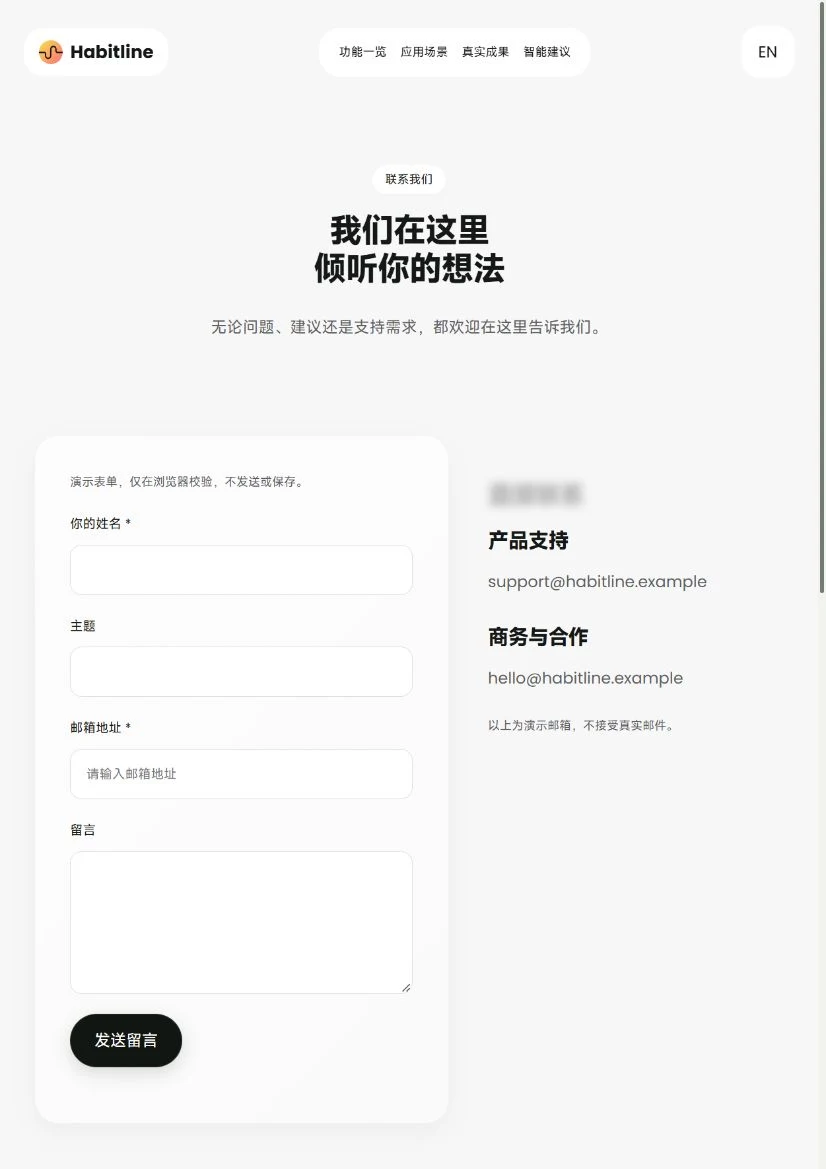
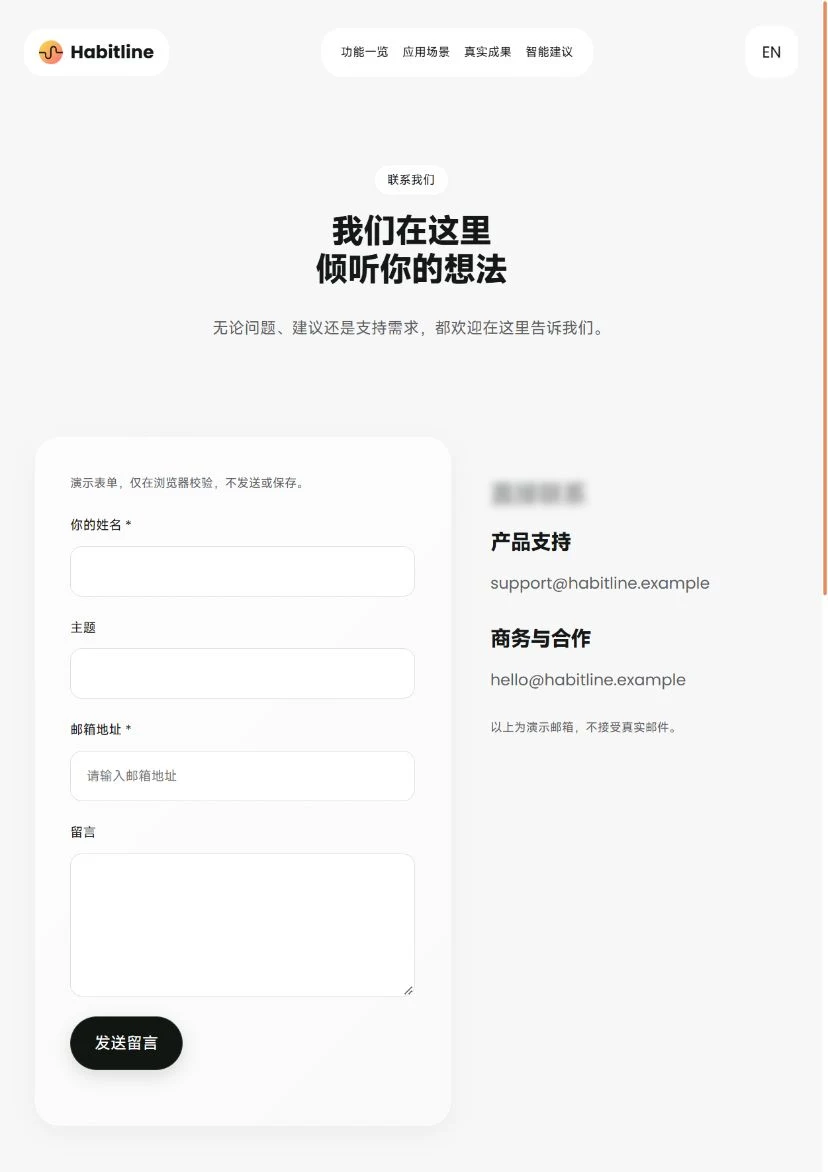
style: use finer warm orange scrollbars with transparent tracks

diff --git a/src/features/site-templates/catalog/habitline/meta.ts b/src/features/site-templates/catalog/habitline/meta.ts
@@ -1,2 +1,2 @@
 import type { SiteTemplate } from '../../types';
-export const habitlineTemplate: SiteTemplate = { ...{ "id": "habitline", "gitUrl": "https://github.com/weelume/habitline-template", "name": "Habitline · 从容习惯", "localizedNames": { "en": "Habitline · Calm daily habits" }, "sceneId": "landing-page", "listed": false, "tags": ["健康生活", "习惯管理", "玻璃质感", "双语", "PC / iPad / H5"], "summary": "暖橙色健康生活与习惯追踪模板，包含双首页、场景切换、动态数据、视频评价、定价、候补名单、更新日志、FAQ 和联系页。", "accentColor": "#ff5900", "cover": "/templates/habitline/screenshots/desktop-home.webp", "screenshots": [{ "src": "/templates/habitline/screenshots/desktop-home.webp", "alt": "Habitline desktop home", "device": "desktop", "width": 1432, "height": 994 }, { "src": "/templates/habitline/screenshots/desktop-features.webp", "alt": "Habitline desktop features", "device": "desktop", "width": 1432, "height": 994 }, { "src": "/templates/habitline/screenshots/desktop-about.webp", "alt": "Habitline desktop about", "device": "desktop", "width": 1432, "height": 994 }, { "src": "/templates/habitline/screenshots/desktop-contact.webp", "alt": "Habitline desktop contact", "device": "desktop", "width": 1432, "height": 994 }, { "src": "/templates/habitline/screenshots/tablet-home.webp", "alt": "Habitline tablet home", "device": "tablet", "width": 826, "height": 1169 }, { "src": "/templates/habitline/screenshots/tablet-features.webp", "alt": "Habitline tablet features", "device": "tablet", "width": 826, "height": 1169 }, { "src": "/templates/habitline/screenshots/tablet-about.webp", "alt": "Habitline tablet about", "device": "tablet", "width": 826, "height": 1169 }, { "src": "/templates/habitline/screenshots/tablet-contact.webp", "alt": "Habitline tablet contact", "device": "tablet", "width": 826, "height": 1169 }, { "src": "/templates/habitline/screenshots/mobile-home.webp", "alt": "Habitline mobile home", "device": "mobile", "width": 382, "height": 827 }, { "src": "/templates/habitline/screenshots/mobile-features.webp", "alt": "Habitline mobile features", "device": "mobile", "width": 382, "height": 827 }, { "src": "/templates/habitline/screenshots/mobile-about.webp", "alt": "Habitline mobile about", "device": "mobile", "width": 382, "height": 827 }, { "src": "/templates/habitline/screenshots/mobile-contact.webp", "alt": "Habitline mobile contact", "device": "mobile", "width": 382, "height": 827 }] }, surfaces: [{ id: 'site', name: '官网', platform: 'pc', locales: ['zh', 'en'], pages: [{ slug: "", title: "首页", localizedTitles: { en: "Home" }, load: () => import('./pages/HomePage') }, { slug: "home-2", title: "首页二", localizedTitles: { en: "Home 2" }, load: () => import('./pages/HomeTwoPage') }, { slug: "about", title: "关于我们", localizedTitles: { en: "About" }, load: () => import('./pages/AboutPage') }, { slug: "waitlist", title: "候补名单", localizedTitles: { en: "Waitlist" }, load: () => import('./pages/WaitlistPage') }, { slug: "changelog", title: "更新日志", localizedTitles: { en: "Changelog" }, load: () => import('./pages/ChangelogPage') }, { slug: "faqs", title: "常见问题", localizedTitles: { en: "FAQs" }, load: () => import('./pages/FaqPage') }, { slug: "contact", title: "联系我们", localizedTitles: { en: "Contact" }, load: () => import('./pages/ContactPage') }, { slug: "legal-pages/privacy-policy", title: "隐私政策", localizedTitles: { en: "Privacy Policy" }, load: () => import('./pages/PrivacyPage') }, { slug: "legal-pages/terms-conditions", title: "服务条款", localizedTitles: { en: "Terms & Conditions" }, load: () => import('./pages/TermsPage') }] }] };
+export const habitlineTemplate: SiteTemplate = { ...{ "id": "habitline", "gitUrl": "https://github.com/weelume/habitline-template", "name": "Habitline · 从容习惯", "localizedNames": { "en": "Habitline · Calm daily habits" }, "sceneId": "landing-page", "listed": false, "tags": ["健康生活", "习惯管理", "玻璃质感", "双语", "PC / iPad / H5"], "summary": "暖橙色健康生活与习惯追踪模板，包含双首页、场景切换、动态数据、视频评价、定价、候补名单、更新日志、FAQ 和联系页。", "accentColor": "#ff5900", "cover": "/templates/habitline/screenshots/desktop-home.webp", "screenshots": [{ "src": "/templates/habitline/screenshots/desktop-home.webp", "alt": "Habitline desktop home", "device": "desktop", "width": 1434, "height": 996 }, { "src": "/templates/habitline/screenshots/desktop-features.webp", "alt": "Habitline desktop features", "device": "desktop", "width": 1434, "height": 996 }, { "src": "/templates/habitline/screenshots/desktop-about.webp", "alt": "Habitline desktop about", "device": "desktop", "width": 1434, "height": 996 }, { "src": "/templates/habitline/screenshots/desktop-contact.webp", "alt": "Habitline desktop contact", "device": "desktop", "width": 1434, "height": 996 }, { "src": "/templates/habitline/screenshots/tablet-home.webp", "alt": "Habitline tablet home", "device": "tablet", "width": 828, "height": 1172 }, { "src": "/templates/habitline/screenshots/tablet-features.webp", "alt": "Habitline tablet features", "device": "tablet", "width": 828, "height": 1172 }, { "src": "/templates/habitline/screenshots/tablet-about.webp", "alt": "Habitline tablet about", "device": "tablet", "width": 828, "height": 1172 }, { "src": "/templates/habitline/screenshots/tablet-contact.webp", "alt": "Habitline tablet contact", "device": "tablet", "width": 828, "height": 1172 }, { "src": "/templates/habitline/screenshots/mobile-home.webp", "alt": "Habitline mobile home", "device": "mobile", "width": 384, "height": 831 }, { "src": "/templates/habitline/screenshots/mobile-features.webp", "alt": "Habitline mobile features", "device": "mobile", "width": 384, "height": 831 }, { "src": "/templates/habitline/screenshots/mobile-about.webp", "alt": "Habitline mobile about", "device": "mobile", "width": 384, "height": 831 }, { "src": "/templates/habitline/screenshots/mobile-contact.webp", "alt": "Habitline mobile contact", "device": "mobile", "width": 384, "height": 831 }] }, surfaces: [{ id: 'site', name: '官网', platform: 'pc', locales: ['zh', 'en'], pages: [{ slug: "", title: "首页", localizedTitles: { en: "Home" }, load: () => import('./pages/HomePage') }, { slug: "home-2", title: "首页二", localizedTitles: { en: "Home 2" }, load: () => import('./pages/HomeTwoPage') }, { slug: "about", title: "关于我们", localizedTitles: { en: "About" }, load: () => import('./pages/AboutPage') }, { slug: "waitlist", title: "候补名单", localizedTitles: { en: "Waitlist" }, load: () => import('./pages/WaitlistPage') }, { slug: "changelog", title: "更新日志", localizedTitles: { en: "Changelog" }, load: () => import('./pages/ChangelogPage') }, { slug: "faqs", title: "常见问题", localizedTitles: { en: "FAQs" }, load: () => import('./pages/FaqPage') }, { slug: "contact", title: "联系我们", localizedTitles: { en: "Contact" }, load: () => import('./pages/ContactPage') }, { slug: "legal-pages/privacy-policy", title: "隐私政策", localizedTitles: { en: "Privacy Policy" }, load: () => import('./pages/PrivacyPage') }, { slug: "legal-pages/terms-conditions", title: "服务条款", localizedTitles: { en: "Terms & Conditions" }, load: () => import('./pages/TermsPage') }] }] };

diff --git a/src/features/site-templates/catalog/habitline/scrollbars.css b/src/features/site-templates/catalog/habitline/scrollbars.css
@@ -1,27 +1,27 @@
 /* 根节点标记由 Shell 管理，模板卸载即恢复；保留原生滚动和键盘行为。 */
 html[data-habitline-scrollbar], .hl {
-  --hl-scroll-track: #f2f2ee;
-  --hl-scroll-thumb: #747b73;
-  --hl-scroll-thumb-hover: #ed682f;
-  --hl-scroll-thumb-active: #bd461a;
+  --hl-scroll-track: transparent;
+  --hl-scroll-thumb: rgba(222, 105, 47, .78);
+  --hl-scroll-thumb-hover: #eb641f;
+  --hl-scroll-thumb-active: #b64217;
   scrollbar-width: thin;
   scrollbar-color: var(--hl-scroll-thumb) var(--hl-scroll-track);
 }
 html[data-habitline-scrollbar] { scrollbar-gutter: stable; }
 .hl * { scrollbar-width: thin; scrollbar-color: var(--hl-scroll-thumb) transparent; }
-/* Chromium 同时支持两套 API；将标准属性恢复为 auto，确保 8px/6px 细节生效。 */
+/* Chromium 同时支持两套 API；将标准属性恢复为 auto，确保 6px/4px 细节生效。 */
 @supports selector(::-webkit-scrollbar) {
   html[data-habitline-scrollbar], .hl, .hl * { scrollbar-width: auto; scrollbar-color: auto; }
-  html[data-habitline-scrollbar]::-webkit-scrollbar { width: 8px; height: 8px; }
-  .hl::-webkit-scrollbar, .hl *::-webkit-scrollbar { width: 6px; height: 6px; }
+  html[data-habitline-scrollbar]::-webkit-scrollbar { width: 6px; height: 6px; }
+  .hl::-webkit-scrollbar, .hl *::-webkit-scrollbar { width: 4px; height: 4px; }
   html[data-habitline-scrollbar]::-webkit-scrollbar-track { background: var(--hl-scroll-track); }
   .hl::-webkit-scrollbar-track, .hl *::-webkit-scrollbar-track { background: transparent; }
   html[data-habitline-scrollbar]::-webkit-scrollbar-thumb, .hl::-webkit-scrollbar-thumb, .hl *::-webkit-scrollbar-thumb {
-    min-height: 36px; min-width: 36px; border-radius: 999px;
-    border: 2px solid transparent; background: var(--hl-scroll-thumb); background-clip: padding-box;
+    min-height: 48px; min-width: 48px; border-radius: 999px;
+    border: 1.5px solid transparent; background: var(--hl-scroll-thumb); background-clip: padding-box;
   }
-  html[data-habitline-scrollbar]::-webkit-scrollbar-thumb:hover, .hl::-webkit-scrollbar-thumb:hover, .hl *::-webkit-scrollbar-thumb:hover { background-color: var(--hl-scroll-thumb-hover); }
-  html[data-habitline-scrollbar]::-webkit-scrollbar-thumb:active, .hl::-webkit-scrollbar-thumb:active, .hl *::-webkit-scrollbar-thumb:active { background-color: var(--hl-scroll-thumb-active); }
+  html[data-habitline-scrollbar]::-webkit-scrollbar-thumb:hover, .hl::-webkit-scrollbar-thumb:hover, .hl *::-webkit-scrollbar-thumb:hover { background-color: var(--hl-scroll-thumb-hover); border-width: 1px; }
+  html[data-habitline-scrollbar]::-webkit-scrollbar-thumb:active, .hl::-webkit-scrollbar-thumb:active, .hl *::-webkit-scrollbar-thumb:active { background-color: var(--hl-scroll-thumb-active); border-width: 1px; }
   html[data-habitline-scrollbar]::-webkit-scrollbar-corner, .hl *::-webkit-scrollbar-corner { background: transparent; }
 }
 @media (forced-colors: active) {

diff --git a/.tpl/docs/MOTION.md b/.tpl/docs/MOTION.md
@@ -24,3 +24,7 @@
 ## 1.0.1 滚动条
 
 页面 8px、内部区域 6px 原生圆角滚动条，低对比轨道、灰绿滑块、橙色悬停与按压色。文档标记仅在模板挂载时启用，离开后恢复。保留原生滚轮、键盘与拖拽；高对比模式保留系统颜色。
+
+## 1.0.4 暖橙细滚动条
+
+按用户选择将页面原生滚动条改为6px、内部区域4px，轨道透明，滑块使用半透明暖橙色，悬停和按压加深。常态细线与原生操作区域分离：保留6px操作区域、48px最小滑块长度，悬停减小透明边框提升辨识。非WebKit浏览器使用标准细滚动条，由浏览器决定物理宽度。保留挂载清理和系统强制颜色模式。
